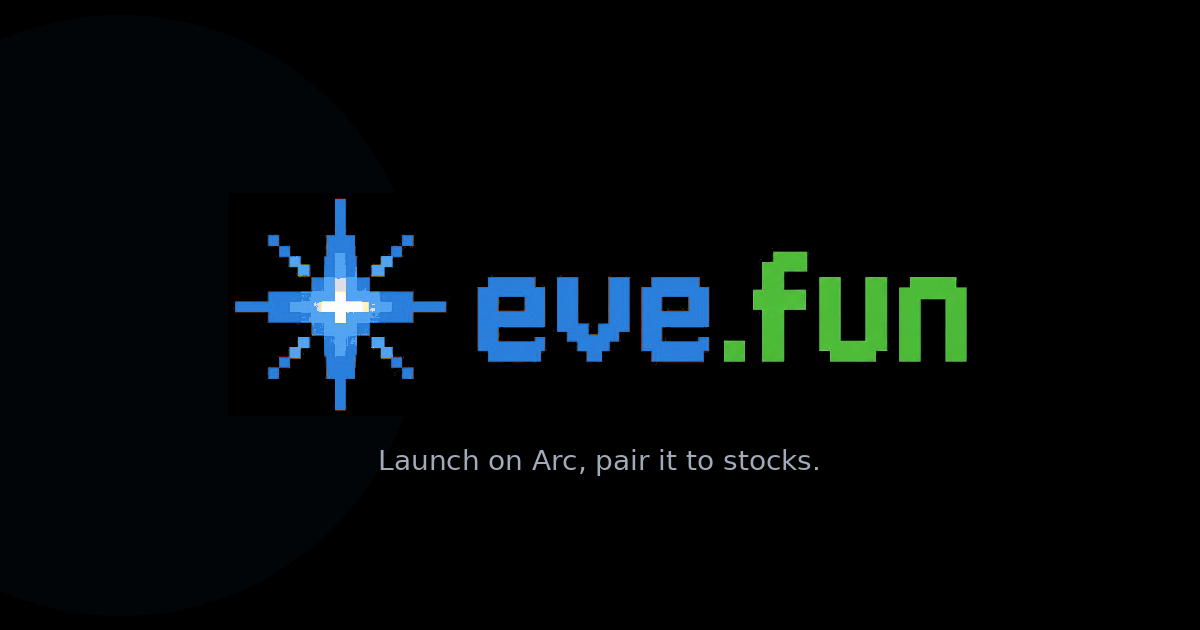
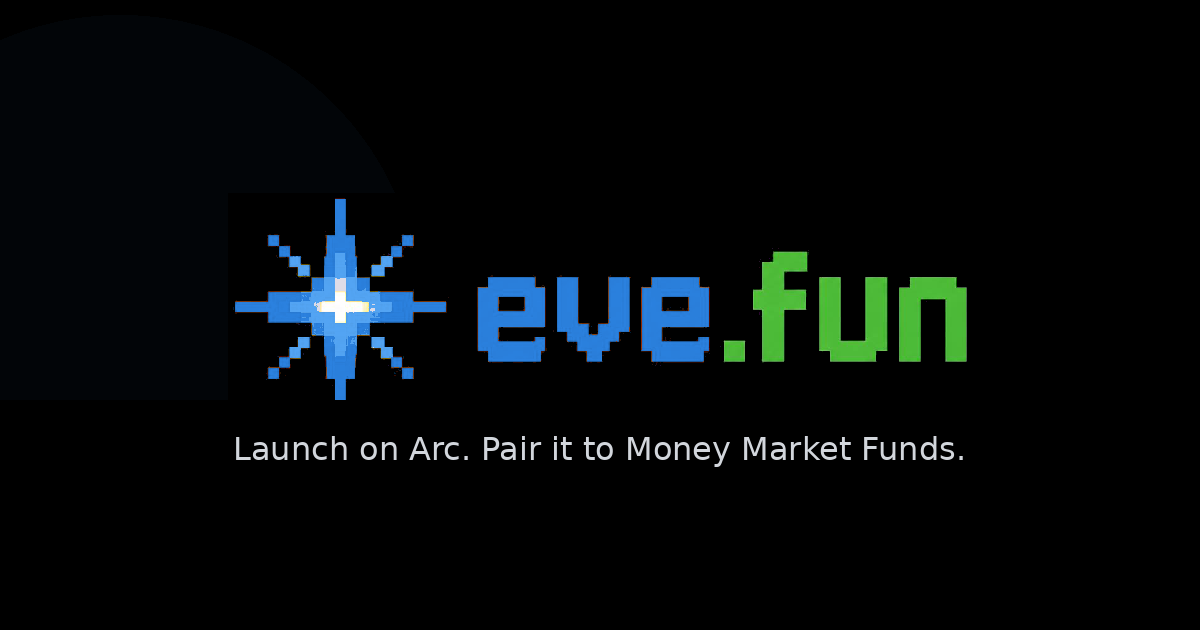
OG preview: Money Market Funds tagline
Replace stocks line on og-eve.png and bump favicon/OG cache bust to v=4 so shares refresh.

Changed region(s): [[0.185, 0.6937, 0.8017, 0.754], [0.2775, 0.6333, 0.3083, 0.6635]]

diff --git a/app/layout.tsx b/app/layout.tsx
@@ -20,13 +20,13 @@ export const metadata: Metadata = {
   description: DESCRIPTION,
   icons: {
     icon: [
-      { url: '/favicon-32.png?v=3', sizes: '32x32', type: 'image/png' },
-      { url: '/favicon-192.png?v=3', sizes: '192x192', type: 'image/png' },
-      { url: '/favicon-512.png?v=3', sizes: '512x512', type: 'image/png' },
-      { url: '/favicon.ico?v=3', sizes: '48x48' },
+      { url: '/favicon-32.png?v=4', sizes: '32x32', type: 'image/png' },
+      { url: '/favicon-192.png?v=4', sizes: '192x192', type: 'image/png' },
+      { url: '/favicon-512.png?v=4', sizes: '512x512', type: 'image/png' },
+      { url: '/favicon.ico?v=4', sizes: '48x48' },
     ],
-    shortcut: '/favicon-32.png?v=3',
-    apple: '/apple-touch-icon.png?v=3',
+    shortcut: '/favicon-32.png?v=4',
+    apple: '/apple-touch-icon.png?v=4',
   },
   openGraph: {
     title: TITLE,
@@ -37,7 +37,7 @@ export const metadata: Metadata = {
     type: 'website',
     images: [
       {
-        url: 'https://www.eve.fun/og-eve.png?v=3',
+        url: 'https://www.eve.fun/og-eve.png?v=4',
         width: 1200,
         height: 630,
         alt: 'eve.fun — Instant token launches on Arc',
@@ -48,7 +48,7 @@ export const metadata: Metadata = {
     card: 'summary_large_image',
     title: TITLE,
     description: DESCRIPTION,
-    images: ['https://www.eve.fun/og-eve.png?v=3'],
+    images: ['https://www.eve.fun/og-eve.png?v=4'],
   },
 }
 
